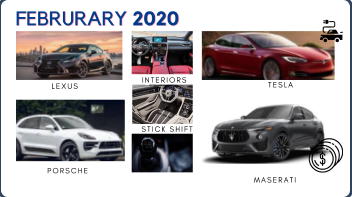
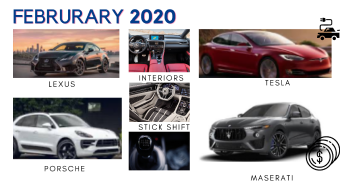
updated styling and resized calendar

diff --git a/client/src/screens/Homepage/Homepage.jsx b/client/src/screens/Homepage/Homepage.jsx
@@ -12,16 +12,16 @@ const Homepage = () => {
         </div>
         <div className="homepage">
           <div className="boards-container">
-          <h2>
+          <h1>
             Vision Boards
-          </h2>
+          </h1>
             <img className="board" src={process.env.PUBLIC_URL + 'assets/Car-Mood-Board.png'} alt="Car" />
             <img className="board" src={process.env.PUBLIC_URL + 'assets/Travel-Mood-Board.png'} alt="Travel" />
           </div>
           <div className="calendar-container">
-          <h2>
+          <h1>
             Calendar
-          </h2>
+          </h1>
             <img className="calendar" src={process.env.PUBLIC_URL + 'assets/Big-Calendar.png'} alt="Calendar" />
           </div>
         </div>

diff --git a/client/src/screens/Homepage/Homepage.css b/client/src/screens/Homepage/Homepage.css
@@ -9,7 +9,7 @@
   justify-content: space-around;
   margin: 0 auto;
   height: 100vh;
-  padding: 10px;
+  padding: 10px auto;
 }
 
 .boards-container {
@@ -17,9 +17,12 @@
   height: 30vh;
 }
 
-.board {
-  padding: 10px;
+.board, .calendar {
+  border: 3px solid #30445C;
+  border-radius: 2.5%;
+  margin: 16.5px auto;
 }
+
 
 .progress-bar {
   background-color: #30445C;
